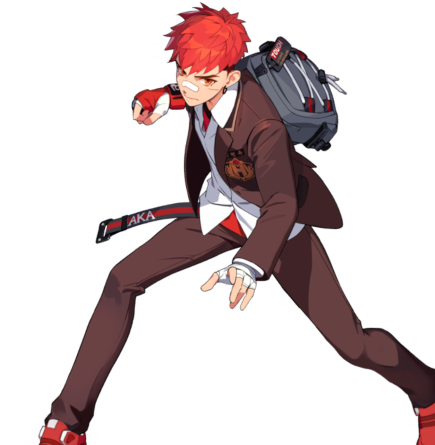
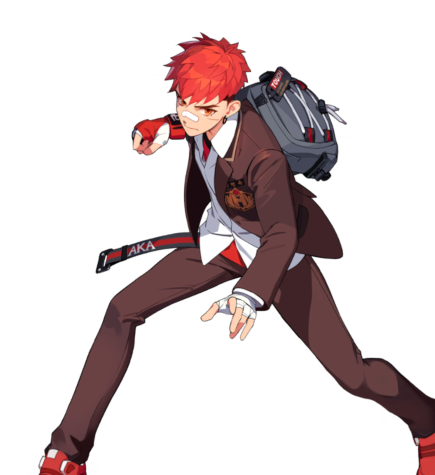
이건호 : 로비레벨 캐릭터 전체 일러스트 피봇 수정

diff --git a/GameApp/Lobby_CharFull.cpp b/GameApp/Lobby_CharFull.cpp
@@ -25,50 +25,63 @@ void Lobby_CharFull::Start()
 		CharFull_Renderer->SetImage("Lobby_CharFull_Hyunwoo.png", "PointSmp");
 		CharFull_Renderer->GetTransform()->SetLocalPosition({ 0.0f, 125.0f, -100.0f });
 		CharFull_Renderer->GetTransform()->SetLocalScaling(CharFull_Renderer->GetCurrentTexture()->GetTextureSize());
+		CharFull_Renderer->Off();
 	}
 }
 
 void Lobby_CharFull::Update(float _DeltaTime)
 {
-	switch (LobbyUIController::SelectedChar)
+	if (LobbyUIController::CharSelectOn == true)
 	{
-	case JobType::NONE:
-		CharFull_Renderer->Off();
-		break;
-	case JobType::YUKI:
-		CharFull_Renderer->Off();
-		break;
-	case JobType::FIORA:
-		CharFull_Renderer->Off();
-		break;
-	case JobType::ZAHIR:
-		CharFull_Renderer->Off();
-		break;
-	case JobType::NADINE:
-		CharFull_Renderer->Off();
-		break;
-	case JobType::HYUNWOO:
-		CharFull_Renderer->On();
-		CharFull_Renderer->SetImage("Lobby_CharFull_Hyunwoo.png", "PointSmp");
-		CharFull_Renderer->GetTransform()->SetLocalScaling(CharFull_Renderer->GetCurrentTexture()->GetTextureSize());
-		break;
-	case JobType::JACKIE:
-		CharFull_Renderer->On();
-		CharFull_Renderer->SetImage("Lobby_CharFull_Jackie.png", "PointSmp");
-		CharFull_Renderer->GetTransform()->SetLocalScaling(CharFull_Renderer->GetCurrentTexture()->GetTextureSize());
-		break;
-	case JobType::RIO:
-		CharFull_Renderer->Off();
-		break;
-	case JobType::AYA:
-		CharFull_Renderer->Off();
-		break;
-	case JobType::MAX:
-		CharFull_Renderer->Off();
-		break;
-	default:
-		break;
+		switch (LobbyUIController::SelectedChar)
+		{
+		case JobType::NONE:
+			CharFull_Renderer->Off();
+			break;
+		case JobType::YUKI:
+			CharFull_Renderer->On();
+			CharFull_Renderer->SetImage("Lobby_CharFull_Yuki.png", "PointSmp");
+			CharFull_Renderer->GetTransform()->SetLocalScaling(CharFull_Renderer->GetCurrentTexture()->GetTextureSize());
+			break;
+		case JobType::FIORA:
+			CharFull_Renderer->Off();
+			break;
+		case JobType::ZAHIR:
+			CharFull_Renderer->Off();
+			break;
+		case JobType::NADINE:
+			CharFull_Renderer->Off();
+			break;
+		case JobType::HYUNWOO:
+			CharFull_Renderer->On();
+			CharFull_Renderer->SetImage("Lobby_CharFull_Hyunwoo.png", "PointSmp");
+			CharFull_Renderer->GetTransform()->SetLocalScaling(CharFull_Renderer->GetCurrentTexture()->GetTextureSize());
+			break;
+		case JobType::JACKIE:
+			CharFull_Renderer->On();
+			CharFull_Renderer->SetImage("Lobby_CharFull_Jackie.png", "PointSmp");
+			CharFull_Renderer->GetTransform()->SetLocalScaling(CharFull_Renderer->GetCurrentTexture()->GetTextureSize());
+			break;
+		case JobType::RIO:
+			CharFull_Renderer->On();
+			CharFull_Renderer->SetImage("Lobby_CharFull_Rio.png", "PointSmp");
+			CharFull_Renderer->GetTransform()->SetLocalScaling(CharFull_Renderer->GetCurrentTexture()->GetTextureSize());
+			break;
+		case JobType::AYA:
+			CharFull_Renderer->On();
+			CharFull_Renderer->SetImage("Lobby_CharFull_Aya.png", "PointSmp");
+			CharFull_Renderer->GetTransform()->SetLocalScaling(CharFull_Renderer->GetCurrentTexture()->GetTextureSize());
+			break;
+		case JobType::MAX:
+			CharFull_Renderer->Off();
+			break;
+		default:
+			break;
+		}
+		return;
 	}
-
-	return;
+	else
+	{
+		CharFull_Renderer->Off();
+	}
 }

diff --git a/GameApp/Lobby_StartButton.cpp b/GameApp/Lobby_StartButton.cpp
@@ -3,6 +3,7 @@
 #include "GameEngine/GameEngineInput.h"
 #include "GameEngine/GameEngineCollision.h"
 #include "GameEngineBase/GameEngineDebug.h"
+#include "LobbyUIController.h"
 
 Lobby_StartButton::Lobby_StartButton()
 {
@@ -19,21 +20,39 @@ bool Lobby_StartButton::MouseCollisionCheck()
 
 void Lobby_StartButton::Start()
 {
-	{
-		ButtonRenderer = CreateTransformComponent<GameEngineImageRenderer>(GetTransform());
-		ButtonRenderer->SetImage("Lobby_BasicButtonOne.png", "PointSmp");
-		ButtonRenderer->GetTransform()->SetLocalPosition({ 420.0f, 330.0f, -102.0f });
-		ButtonRenderer->GetTransform()->SetLocalScaling(ButtonRenderer->GetCurrentTexture()->GetTextureSize());
+	float4 ButtonPos = { -475.0f, -240.0f, -102.0f };
 
-		ButtonCollision = CreateTransformComponent<GameEngineCollision>();
-		ButtonCollision->GetTransform()->SetLocalPosition({ 420.0f, 330.0f, -102.0f });
-		ButtonCollision->GetTransform()->SetLocalScaling(ButtonRenderer->GetCurrentTexture()->GetTextureSize());
-		ButtonCollision->SetCollisionInfo(static_cast<int>(CollisionGroup::UI), CollisionType::Rect);
-	}
+	ButtonRenderer = CreateTransformComponent<GameEngineImageRenderer>(GetTransform());
+	ButtonRenderer->SetImage("Lobby_SelectButton_Before.png", "PointSmp");
+	ButtonRenderer->GetTransform()->SetLocalPosition(ButtonPos);
+	ButtonRenderer->GetTransform()->SetLocalScaling(ButtonRenderer->GetCurrentTexture()->GetTextureSize());
 
+	ButtonCollision = CreateTransformComponent<GameEngineCollision>();
+	ButtonCollision->GetTransform()->SetLocalPosition(ButtonPos);
+	ButtonCollision->GetTransform()->SetLocalScaling(ButtonRenderer->GetCurrentTexture()->GetTextureSize());
+	ButtonCollision->SetCollisionInfo(static_cast<int>(CollisionGroup::UI), CollisionType::Rect);
 }
 
 void Lobby_StartButton::Update(float _DeltaTime)
 {
-	GetLevel()->PushDebugRender(ButtonRenderer->GetTransform(), CollisionType::Rect);
+	//GetLevel()->PushDebugRender(ButtonRenderer->GetTransform(), CollisionType::Rect);
+
+	if (true == MouseCollisionCheck())
+	{
+		if (true == GameEngineInput::GetInst().Down("LBUTTON"))
+		{
+			if (LobbyUIController::CharSelectOn == false)
+			{
+				ButtonRenderer->SetImage("Lobby_SelectButton_After.png", "PointSmp");
+				LobbyUIController::CharSelectOn = true;
+			}
+			else if (LobbyUIController::CharSelectOn = true)
+			{
+				ButtonRenderer->SetImage("Lobby_SelectButton_Before.png", "PointSmp");
+				LobbyUIController::CharSelectOn = false;
+			}
+			
+		}
+	}
+
 }

diff --git a/GameApp/LobbyUIController.cpp b/GameApp/LobbyUIController.cpp
@@ -7,6 +7,7 @@
 #include "Lobby_PortraitBg.h"
 #include "Lobby_CharFull.h"
 #include "LobbyLevel.h"
+#include "Lobby_StartButton.h"
 
 JobType LobbyUIController::SelectedChar = JobType::MAX;
 bool LobbyUIController::CharSelectOn = false;
@@ -34,17 +35,18 @@ void LobbyUIController::InitUI()
 		hostButtonUI_ = GetLevel()->CreateActor<Lobby_ButtonOne>();
 		clientButtonUI_ = GetLevel()->CreateActor<Lobby_ButtonTwo>();
 		charFullUI_= GetLevel()->CreateActor<Lobby_CharFull>();
-
+		startButtonUI_ = GetLevel()->CreateActor<Lobby_StartButton>();
 	}
 
 	{
 		for (int x = 0; x < (int)JobType::MAX; x++)
 		{
 			Lobby_PortraitBg* Portrait = GetLevel()->CreateActor<Lobby_PortraitBg>();
-			float4 BasicPosition = { -580.0f, 200.0f, -102.0f };
 
+			float4 BasicPosition = { -580.0f, 200.0f, -102.0f };
 			int Vertical = (x / 4);
 			int Horizonal = x - (Vertical * 4);
+
 			Portrait->GetTransform()->SetLocalPosition(BasicPosition + float4{ float(Horizonal) * 72.0f, (float(Vertical) * -115.0f), 0.0f });
 			Portrait->SetChar(static_cast<JobType>(x));
 
